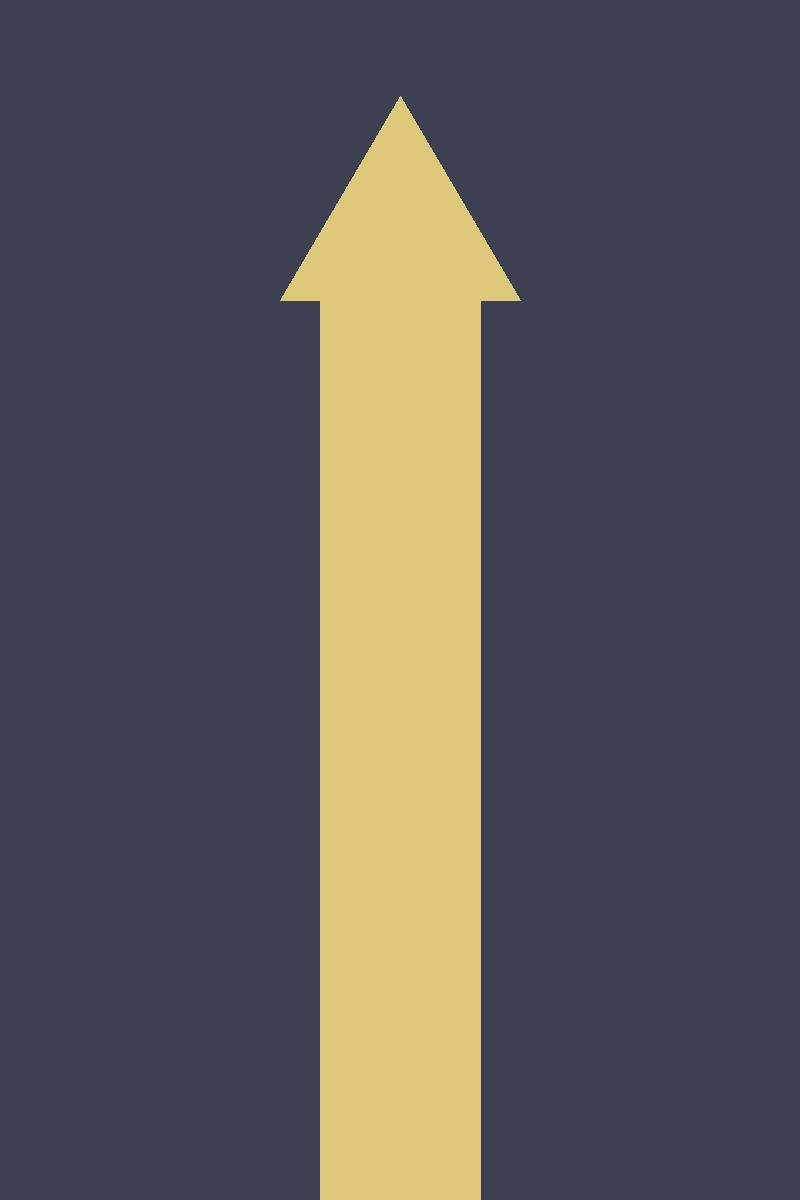
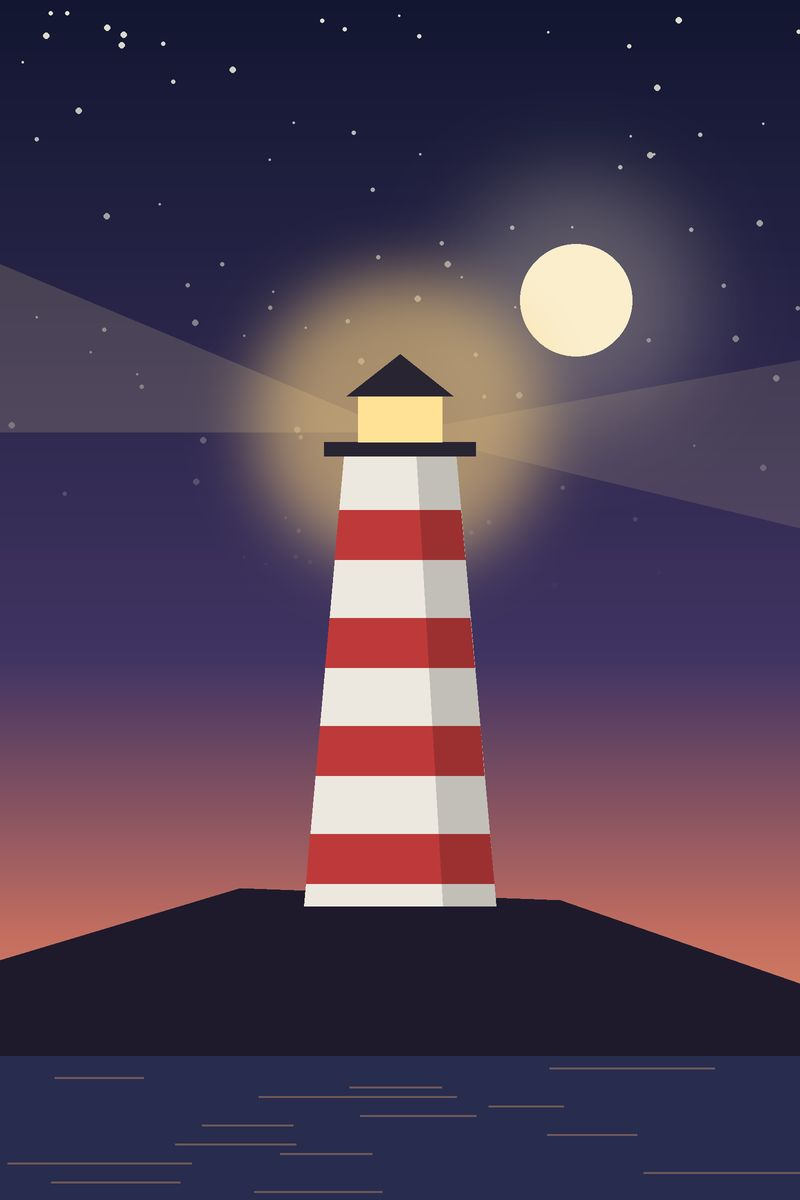
style(showcase): redraw the lighthouse and field gallery pictures
Gradients, glows and anti-aliased shapes in place of flat blocks, with
the subjects kept inside the centred square crop.

Claude-Session: https://claude.ai/code/session_016R5AFrkN5Xo9ejp9KKvhBg

diff --git a/showcaseSite/content/posts/gallery/index.md b/showcaseSite/content/posts/gallery/index.md
@@ -21,7 +21,7 @@ series = ["Showcase"]
 [[resources]]
   src = "photos/03-tower.jpg"
   [resources.params]
-    alt = "A single tower against a dark sky"
+    alt = "A striped lighthouse at dusk under a full moon"
     caption = "Portrait, cropped from the **centre**"
 
 [author]
